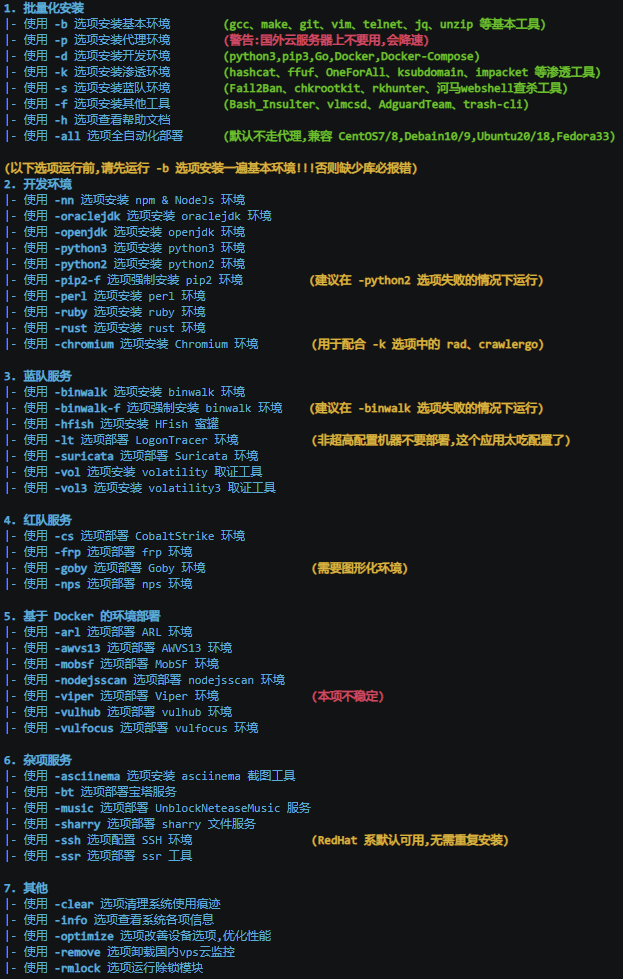
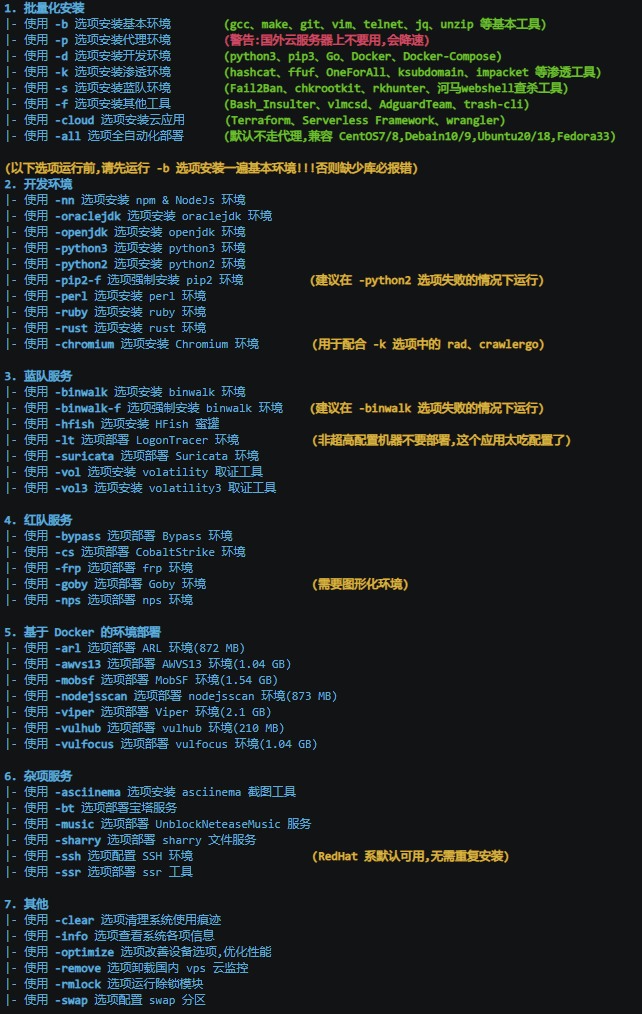
update

diff --git a/README.md b/README.md
@@ -51,13 +51,13 @@ f8x 基本上不需要任何依赖,或者说它就是为了帮助你安装各种
 
 **1. 批量化安装**
 - 使用 -b 选项安装基本环境        (gcc、make、git、vim、telnet、jq、unzip 等基本工具)
-- 使用 -p 选项安装代理环境        (警告:国外云服务器上不要用,会降速)
-- 使用 -d 选项安装开发环境        (python3、pip3、Go、Docker、Docker-Compose、Terraform)
+- 使用 -p 选项安装代理环境        (警告: 国外云服务器上不要用, 会降速)
+- 使用 -d 选项安装开发环境        (python3、pip3、Go、Docker、Docker-Compose)
 - 使用 -k 选项安装渗透环境        (hashcat、ffuf、OneForAll、ksubdomain、impacket 等渗透工具)
-- 使用 -s 选项安装蓝队环境        (Fail2Ban、chkrootkit、rkhunter、河马webshell查杀工具)
+- 使用 -s 选项安装蓝队环境        (Fail2Ban、chkrootkit、rkhunter、河马 webshell 查杀工具)
 - 使用 -f 选项安装其他工具        (Bash_Insulter、vlmcsd、AdguardTeam、trash-cli)
-- 使用 -h 选项查看帮助文档
-- 使用 -all 选项全自动化部署      (默认不走代理,兼容 CentOS7/8,Debain10/9,Ubuntu20/18,Fedora33)
+- 使用 -cloud 选项安装云应用      (Terraform、Serverless Framework、wrangler)
+- 使用 -all 选项全自动化部署      (默认不走代理, 兼容 CentOS7/8,Debain10/9,Ubuntu20/18,Fedora33)
 
 **2. 开发环境**
 - 使用 -nn 选项安装 npm & NodeJs 环境
@@ -81,6 +81,7 @@ f8x 基本上不需要任何依赖,或者说它就是为了帮助你安装各种
 - 使用 -vol3 选项安装 volatility3 取证工具
 
 **4. 红队服务**
+- 使用 -bypass 选项部署 Bypass 环境
 - 使用 -cs 选项部署 CobaltStrike 环境
 - 使用 -frp 选项部署 frp 环境
 - 使用 -goby 选项部署 Goby 环境                (需要图形化环境)
@@ -107,8 +108,9 @@ f8x 基本上不需要任何依赖,或者说它就是为了帮助你安装各种
 - 使用 -clear 选项清理系统使用痕迹
 - 使用 -info 选项查看系统各项信息
 - 使用 -optimize 选项改善设备选项,优化性能
-- 使用 -remove 选项卸载国内vps云监控
+- 使用 -remove 选项卸载国内 vps 云监控
 - 使用 -rmlock 选项运行除锁模块
+- 使用 -swap 选项配置 swap 分区
 
 ---
 
@@ -161,10 +163,10 @@ f8x 基本上不需要任何依赖,或者说它就是为了帮助你安装各种
 - [x] goby 安装选项
 - [x] awvs
 - [x] CS CrossC2 插件
+- [x] 增加虚拟内存
 - [ ] tomcat 指定版本安装选项
 - [ ] weblogic 指定版本安装选项
 - [ ] 完善 -info 选项内容
-- [ ] 增加虚拟内存
 
 ---
 
